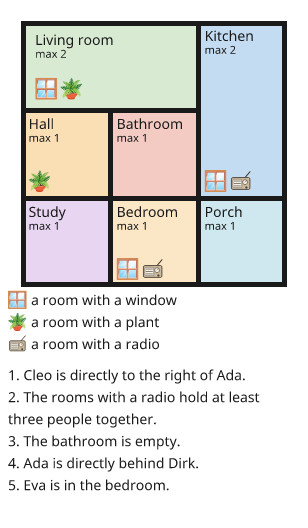
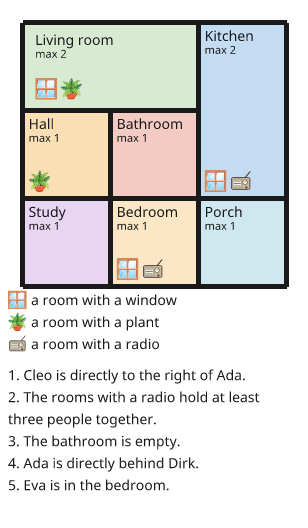
Draw a room plan as rooms, not as a filled rectangle
A plan with paper cells (a boat beside the house, a garden around a corner) drew those cells as blank rooms inside one big border. Only room cells are filled and edged now, each edge only where it faces paper or another room, and the plan keeps its shape.

Changed region(s): [[0.0584, 0.0303, 0.9643, 0.5455]]

diff --git a/src/csp/picture.py b/src/csp/picture.py
@@ -1877,30 +1877,36 @@ def rooms_picture(
     )
     canvas = Canvas(board_width + 2 * margin, height)
     thick = max(5, cell // 20) | 1
+
+    def wall(row: int, col: int, dr: int, dc: int) -> bool:
+        """Whether an edge of this cell faces paper, the plan's edge or another room."""
+        row2, col2 = row + dr, col + dc
+        if not (0 <= row2 < puzzle.height and 0 <= col2 < puzzle.width):
+            return True
+        here, there = puzzle.plan[row][col], puzzle.plan[row2][col2]
+        return here != there and (here != "." or there != ".")
+
     for row in range(puzzle.height):
         for col in range(puzzle.width):
             key = puzzle.plan[row][col]
             x, y = margin + col * cell, margin + row * cell
-            fill = (255, 255, 255) if key == "." else _hex_colour(puzzle.room(key).colour)
+            if key == ".":
+                continue
+            fill = _hex_colour(puzzle.room(key).colour)
             canvas.rectangle((x, y, x + cell - 1, y + cell - 1), fill=fill)
     for row in range(puzzle.height):
         for col in range(puzzle.width):
-            key = puzzle.plan[row][col]
+            if puzzle.plan[row][col] == ".":
+                continue  # paper, not part of the plan
             x, y = margin + col * cell, margin + row * cell
-            if col + 1 < puzzle.width and puzzle.plan[row][col + 1] != key:
+            if wall(row, col, 0, 1):
                 canvas.line((x + cell, y, x + cell, y + cell), fill=INK, width=thick)
-            if row + 1 < puzzle.height and puzzle.plan[row + 1][col] != key:
+            if wall(row, col, 1, 0):
                 canvas.line((x, y + cell, x + cell, y + cell), fill=INK, width=thick)
-    canvas.rectangle(
-        (
-            margin - 1,
-            margin - 1,
-            margin + board_width,
-            margin + puzzle.height * cell,
-        ),
-        outline=INK,
-        width=thick,
-    )
+            if wall(row, col, 0, -1):
+                canvas.line((x, y, x, y + cell), fill=INK, width=thick)
+            if wall(row, col, -1, 0):
+                canvas.line((x, y, x + cell, y), fill=INK, width=thick)
     for room in puzzle.rooms:
         top, left = min(room.cells)
         rows = [row for row, _ in room.cells]
